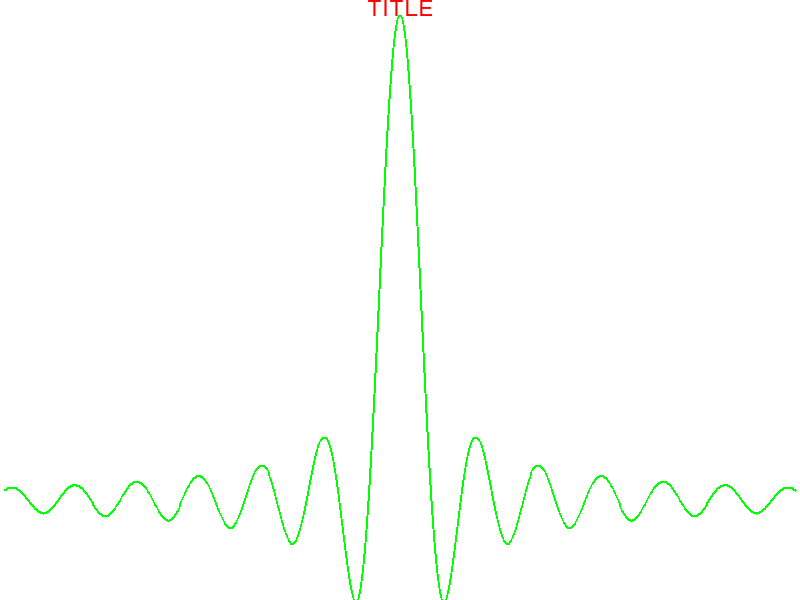
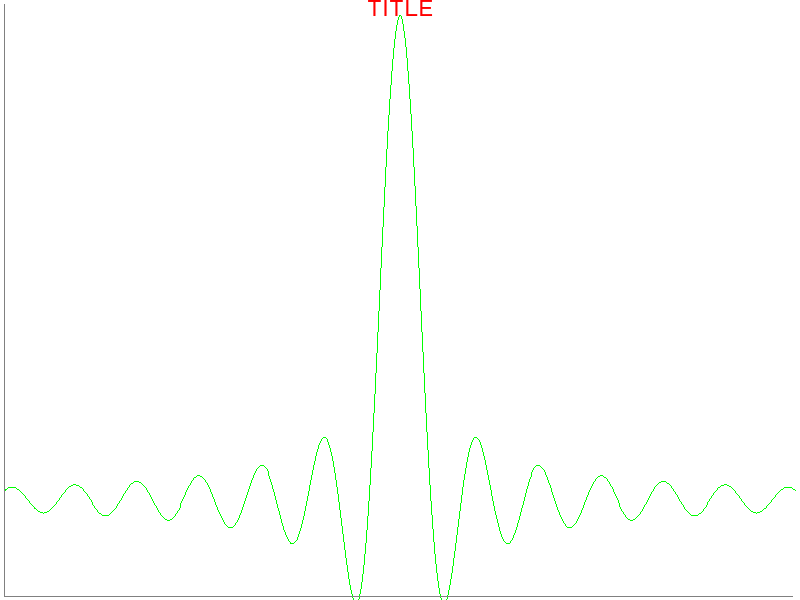
Add files via upload
Axis rendering added. Simple one.
Also demo of resize method added into sample.py
Added result of execution: square.png and square1920.png

Changed region(s): [[0.0, 0.99, 1.0, 1.0], [0.0, 0.81, 0.0312, 0.84]]

diff --git a/drawchart.py b/drawchart.py
@@ -4,7 +4,6 @@ from itertools import izip
 import config
 import operator
 
-
 class cDrawChart(object):
     """convert data time from text labels
         calc deltas
@@ -13,30 +12,30 @@ class cDrawChart(object):
         self.lines = [] #( ((x[],y[]), color),..)
         self.texts = [] #( ('text',(x,y),text_size,mode,alignment,font_type,font_size,color), ..)   mode: pixel_a / pixel_r / data - how to calculate coordinates, alignment - ('left','top')
                         #      0     1      2        3       4          5       6        7
-        self.data = []
+        self.onscreen_texts = [] # ( ("text",(coor_x,coor_y),(scale_x,scale_y),align,font,size,color) , (...) )
+                                 #       0           1              2            3    4    5     6        
         self.scale_x =0
         self.scale_y =0
         self.min_x = 0
         self.max_x = 0
         self.min_y = 0
-        self.max_x = 0
-        self.margin = margin
+        self.max_y = 0
+        self.margin = margin        
         self.width = width
-        self.height = height
+        self.height = height        
         self.draw_color = fg_color
         self.bgc = bg_color
         self.image = 0
         self.draw_area = 0
-        self.onscreen_texts = [] # ( ("text",(coor_x,coor_y),(scale_x,scale_y),align,font,size,color) , (...) )
-                                 #       0           1              2            3    4    5     6        
+        self.axis_x = []
+        self.axis_y = []
 
     def Resize(self,size,margin='default'):
         if 'default' != margin:
             self.margin = margin
         self.width = size[0]
         self.height = size[1]
-        
-                                 
+                                         
     def AddTexts(self,text,coor,mode='default',alignment='default',font_type='default',font_size=config.chart_font_size,color='default'):
         if 'default' == mode:
             mode = 'data'
@@ -128,8 +127,62 @@ class cDrawChart(object):
             text_font = ImageFont.truetype(text[5],text[6])
             self.draw_area.text((text_x,text_y),text[0],text[7],font = text_font)        
 
-    def RenderAxes(self):
+    def ConfigAxis(self, mode='default', levels='default'):
+        #TODO
+        # ConfigAxis configure axis parameters
+        # mode: (axis_x, axis_y), axis_x - "left,rigth,float", axis_y - "top, bottom, float"
+        # if "float" - you need to set levels
+        # float can be "absolute, relative and data
+        if 'default' == mode: # left,bottom
+            mode = ('left','bottom')
+        
+        if 'default'!= levels:
+            self.axis_y = (mode[0])  #TODO set axis levels
+            self.axis_x = (mode[1])
+        else:
+            self.axis_y = (mode[0],levels) # levels = 'default'
+            self.axis_x = (mode[1],levels)
         return 0
+
+    def RenderAxis(self):
+        # RenderAxis - create lines to show axis
+        # lines can be left/right/top/bottom - 1 pixel in the margin. if axis are 'float' - levels must be specified
+        # levels could be absolute/relative/data. Absolute - in pixels, Relative in % to size, data - linked with actual data values and need to be normalized.
+        # level processing is TODO
+        if not self.axis_x: return 0  # if axis not set
+        if not self.axis_y: return 0  # if axis not set
+
+        draw_x = []
+        draw_y = []
+
+        if 'bottom' == self.axis_x[0]:
+            draw_x.append(self.margin[0] - 1)
+            draw_y.append(self.height - self.margin[3] + 1)
+            draw_x.append(self.width -  self.margin[0] - self.margin[1] +2)
+            draw_y.append(self.height - self.margin[3] + 1)
+            self.draw_area.line(list(izip(draw_x, draw_y)), fill=config.axis_color, width=config.axis_pen_width)
+        elif 'top' == self.axis_x[0]:
+            draw_x.append(self.margin[0] - 1)
+            draw_y.append(self.margin[3] - 1)
+            draw_x.append(self.width -  self.margin[0] - self.margin[1] +2)
+            draw_y.append(self.margin[3] - 1)
+            self.draw_area.line(list(izip(draw_x, draw_y)), fill=config.axis_color, width=config.axis_pen_width)
+
+
+        del draw_x [:]
+        del draw_y [:]
+        if 'left' == self.axis_y[0]:
+            draw_x.append(self.margin[0] - 1)
+            draw_y.append(self.margin[1] - 1)
+            draw_x.append(self.margin[0] - 1)
+            draw_y.append(self.height - self.margin[3] + 1 )
+            self.draw_area.line(list(izip(draw_x, draw_y)), fill=config.axis_color, width=config.axis_pen_width)        
+        elif 'right' == self.axis_y[0]:
+            draw_x.append(self.width -  self.margin[0] - self.margin[1] +2)
+            draw_y.append(self.margin[1] - 1)
+            draw_x.append(self.width -  self.margin[0] - self.margin[1] +2)
+            draw_y.append(self.height - self.margin[3] + 1 )
+            self.draw_area.line(list(izip(draw_x, draw_y)), fill=config.axis_color, width=config.axis_pen_width)        
 
     def RenderData(self): #use lines and draw all of them
         self.image = Image.new('RGBA', (self.width, self.height), self.bgc)
@@ -159,10 +212,8 @@ class cDrawChart(object):
 
         self.RenderLines()
         self.RenderTexts()
-        self.RenderAxes()
-
+        self.RenderAxis()
         return 0
-
 
     def SaveImageToFile(self, filename, path = config.root_path):
         self.image.save(path + filename)

diff --git a/config.py b/config.py
@@ -6,13 +6,15 @@ pixel_scale = 1 #sensitivity to data visualisation. 1 - every pixel, 2 - two pix
 
 chart_width = 800
 chart_height = 600
+
 #              R,  G,  B,  A
 chart_color = (0,  0,  255,255)  #blue, non-transparent
 back_color =  (255,255,255,255) #white
-axes_color =  (128,128,128,255)  #gray, non-transparent
+axis_color =  (128,128,128,255)  #gray, non-transparent
 text_color =  (0,  0,  0,  255)  #black, non-transparent
 
-chart_pen_width = 2
+chart_pen_width = 1
+axis_pen_width = 1
 
 chart_font_type = root_path + "GothamSSm-Book.otf"
 chart_font_size = 16

diff --git a/sample.py b/sample.py
@@ -18,6 +18,11 @@ draw.AddTexts('TITLE',(50,0),mode='pixel_r',alignment=('middle','middle'),color=
 
 draw_list = list(izip(x, y))
 draw.AddLine(draw_list,(0,255,0,255))
-
+draw.ConfigAxis() #default axis - left/bottom
 draw.RenderData()
 draw.SaveImageToFile('square.png',path='./')
+
+draw.Resize((1920,1080))
+draw.RenderData()
+draw.SaveImageToFile('square1920.png',path='./')
+
